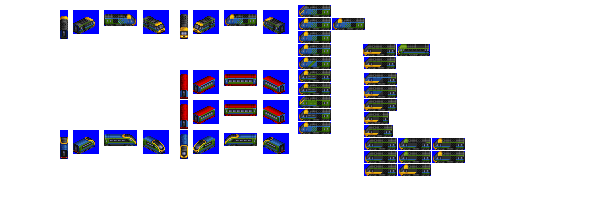
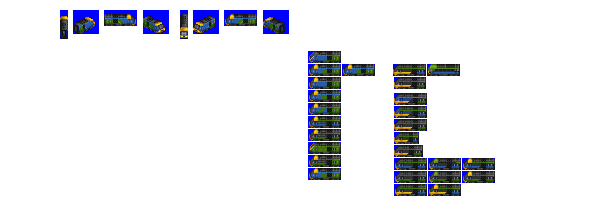
Change: sprites complete for Scorcher, also fix some errors with Blaze

diff --git a/src/vehicles/scorcher.py b/src/vehicles/scorcher.py
@@ -12,7 +12,7 @@ def main(roster):
                             dual_headed=True,
                             intro_date_offset=-10,  # let's be a little bit earlier for this one - keep match to HST coaches
                             gen=6,
-                            sprites_complete=False)
+                            sprites_complete=True)
 
     consist.add_unit(type=DieselEngineUnit,
                      weight=70,
